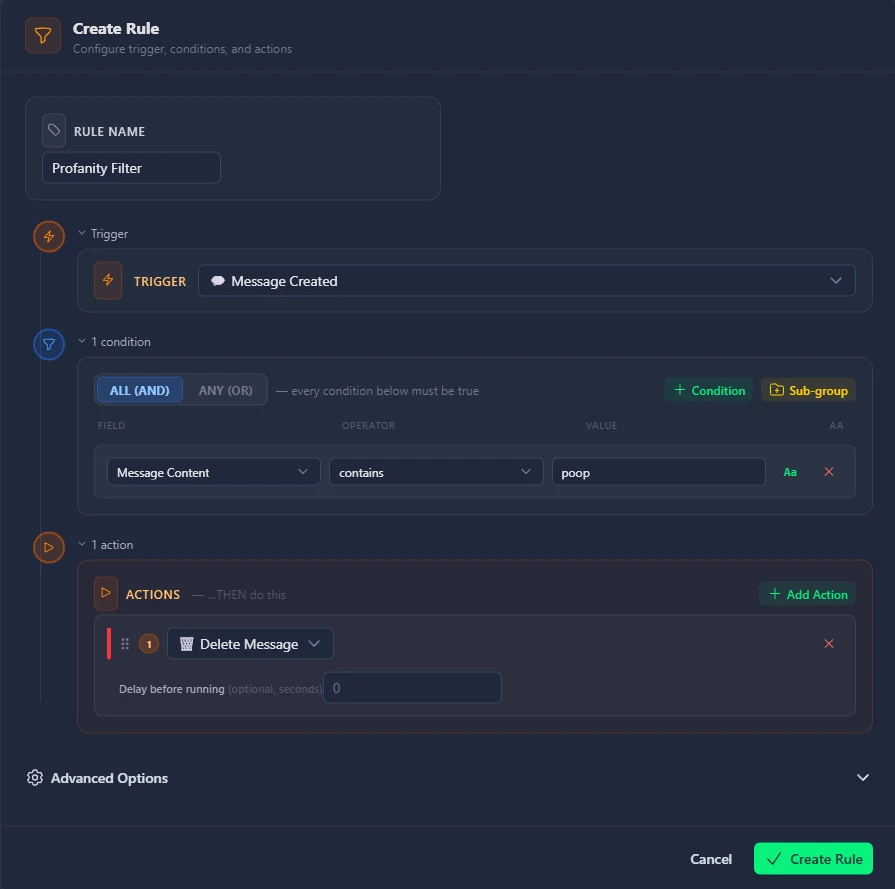
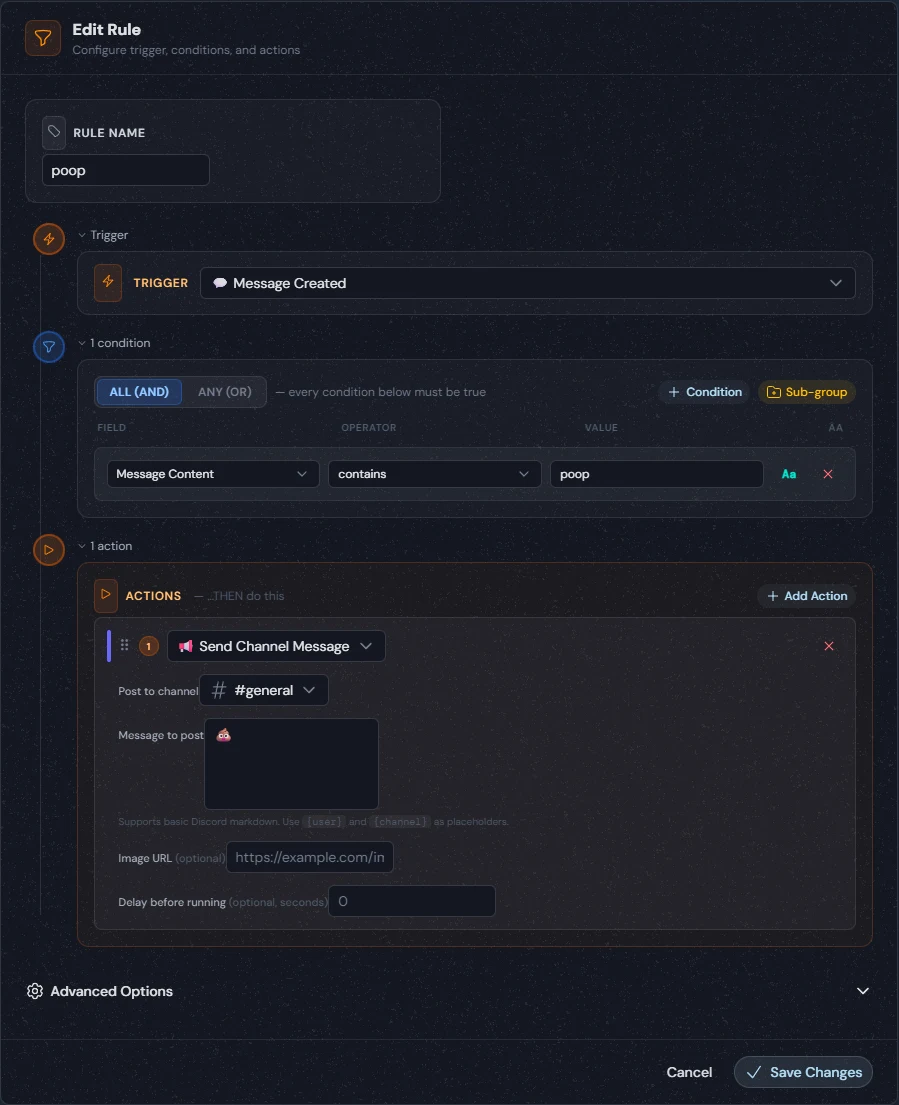
chore(web): refresh landing page dashboard screenshots (#86)
- Hero now shows the server Overview page; the AutoMod showcase shows the
  current rule editor. Image dimensions and alt text updated to match.

diff --git a/web/app/pages/index.vue b/web/app/pages/index.vue
@@ -69,10 +69,10 @@
                 class="hero-shot-img"
                 src="/screenshots/herodash.webp"
                 width="1920"
-                height="953"
+                height="985"
                 fetchpriority="high"
                 decoding="async"
-                alt="The MODUS dashboard's server configuration page, listing modules by category with an on/off toggle for each"
+                alt="The MODUS dashboard's server Overview page: setup items that need attention, open tickets, recent moderation, a community snapshot and bot-flagged issues"
               />
             </div>
           </div>
@@ -308,11 +308,11 @@
             <div class="showcase-image is-narrow">
               <img
                 src="/screenshots/automod.webp"
-                width="895"
-                height="889"
+                width="899"
+                height="1105"
                 loading="lazy"
                 decoding="async"
-                alt="The AutoMod rule builder with a Message Created trigger, a message-content condition, and a Delete Message action"
+                alt="The AutoMod rule editor with a Message Created trigger, a message-content condition, and a Send Channel Message action"
               />
             </div>
           </div>
